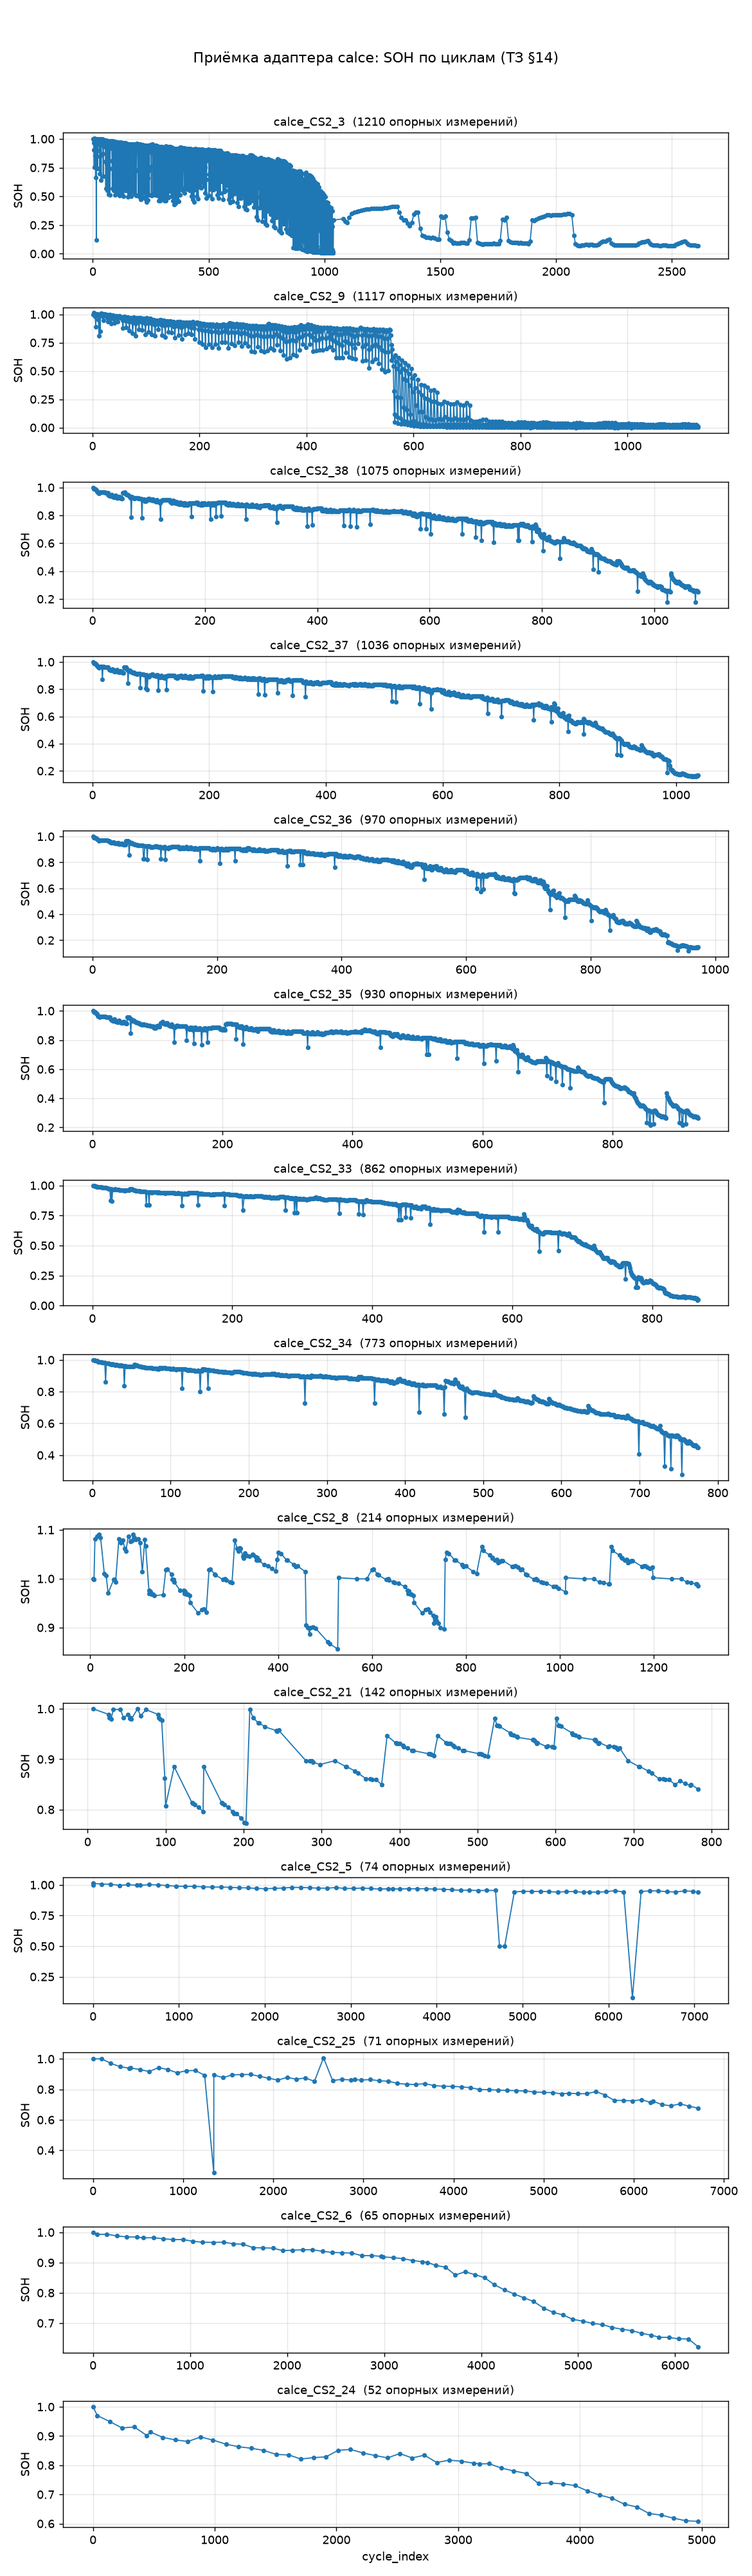
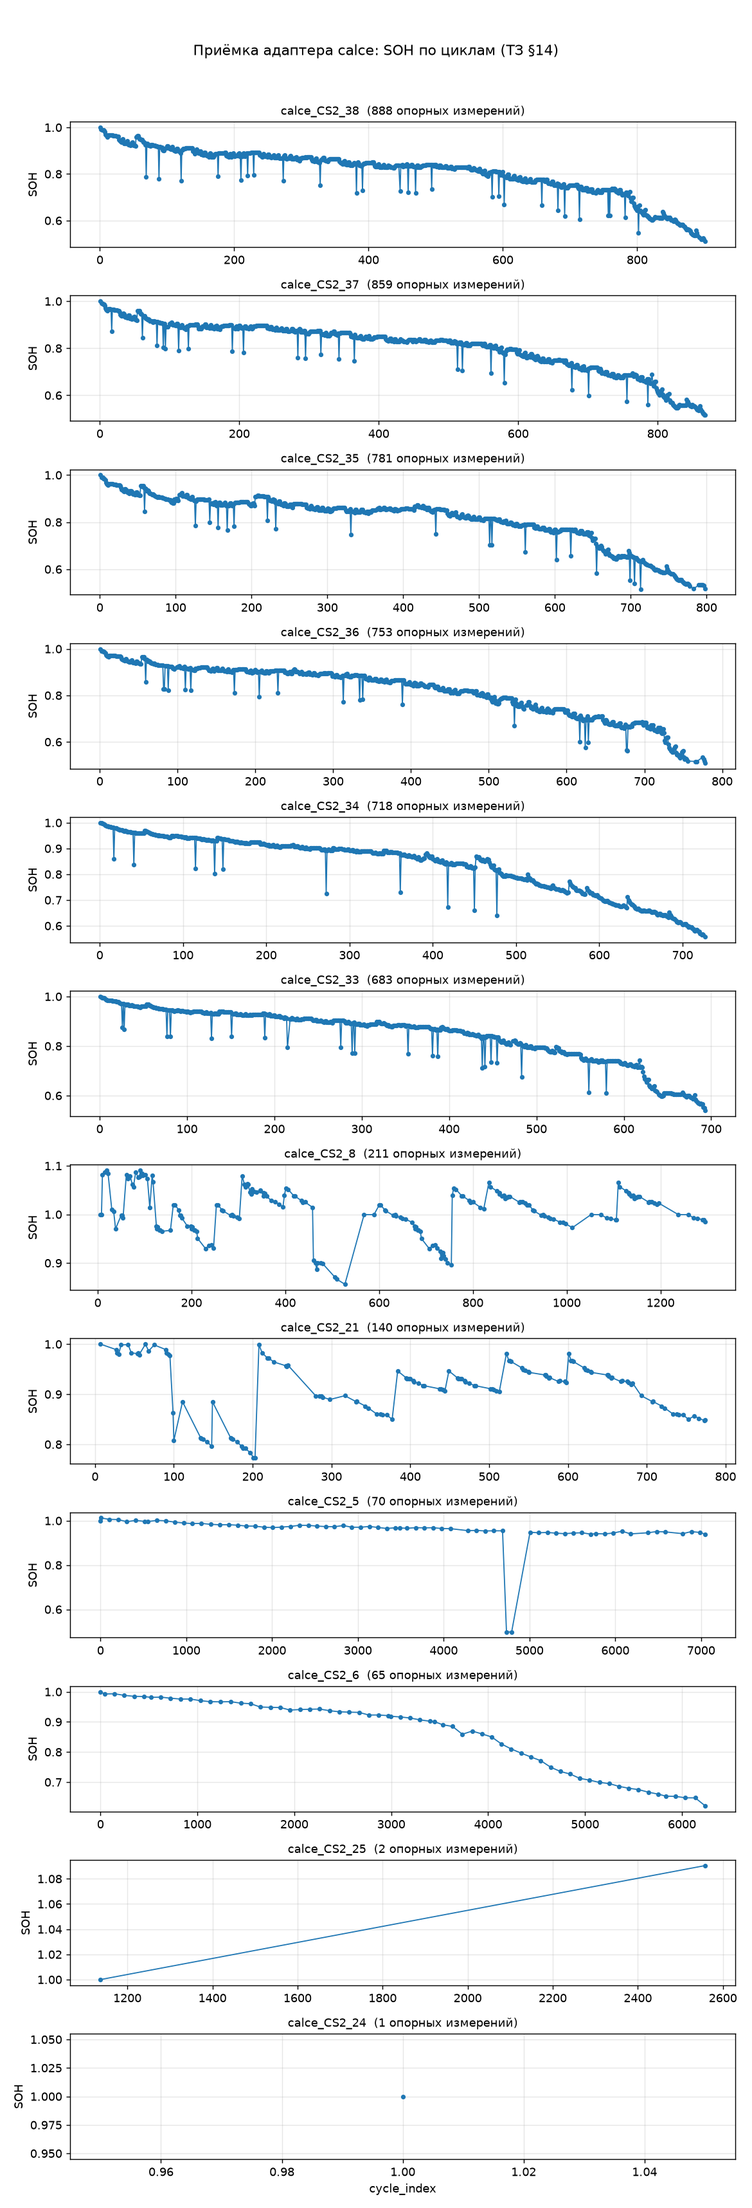
Правила §5 по решению владельца: тип 3 исключён, полный цикл требует заряда
- labels.reference_cycle_rules.calce.exclude_cells: [CS2_3, CS2_9] — тип 3
  меняет ток разряда каждый цикл (0.11..2.2 А), а ёмкость зависит от тока
  (1.098 А·ч при 0.11 А против 0.830 при 2.2 А), поэтому таргет шумит по
  режиму, а не по старению; исключение на этапе discover
- min_charge_throughput_rel: 0.5 — опорный цикл обязан перенести не меньше
  половины bol. Без этого в конце жизни проходили циклы, доходившие до 4.200 В
  и 2.700 В, но переносившие 0.119 А·ч против 0.886 А·ч (ячейка была почти
  полной): 162 из 862 циклов у calce_CS2_33, все в конце жизни. Конечный SOH
  стал правдоподобным: 0.05 -> 0.54
- store.clear_dataset_parts: ingest заменяет датасет целиком, а не дополняет —
  ячейка, исчезнувшая из сырого каталога или исключённая правилом, уходит из
  хранилища (иначе exclude_cells не действовал); старые parts уезжают в _stale
- 169 тестов, ruff чистый

ОСТАЁТСЯ ОТКРЫТЫМ: у 10 ячеек кривые всё ещё немонотонны (11-17 п.п.
восстановления). Следующий шаг — диагностика самого большого скачка (циклы
418-624 у CS2_33/34). Типы 5-6 после фильтра дают 1-2 опорных цикла на ячейку,
их участие в бенчмарке тоже надо решать.

diff --git a/src/bsb/ingest/calce.py b/src/bsb/ingest/calce.py
@@ -107,6 +107,16 @@ class CalceAdapter:
                 f"{raw_dir}: не найдено ячеек серий {sorted(series)}; "
                 "сначала выполните scripts/download_calce.sh"
             )
+        # Решение владельца (§18 п.5): ячейки с меняющимся током разряда в
+        # бенчмарк не входят — их таргет зависит от режима, а не от старения.
+        excluded = {
+            str(item) for item in self.config.labels.rule(self.name).get("exclude_cells", [])
+        }
+        grouped = {key: value for key, value in grouped.items() if key not in excluded}
+        if not grouped:
+            raise FileNotFoundError(
+                f"{raw_dir}: все ячейки серий {sorted(series)} исключены правилом exclude_cells"
+            )
         return [
             CellSource(
                 dataset=self.name,
@@ -457,30 +467,43 @@ class CalceAdapter:
         }
 
     @staticmethod
-    def _drop_off_rate_cycles(
-        cycles: pl.DataFrame, bundle: RawBundle, *, tolerance: float
+    def _drop_shallow_charges(
+        cycles: pl.DataFrame, bundle: RawBundle, *, rel: float
     ) -> tuple[pl.DataFrame, int]:
-        """Снять признак опорного с циклов, разряжавшихся не модальным током.
+        """Снять признак опорного с циклов, перенёсших слишком мало заряда.
 
-        Ёмкость зависит от тока разряда (у CS2 типа 3 — до 25% между соседними
-        циклами), поэтому в опорные оставляем только циклы с модальным для этой
-        ячейки током разряда. Для типов 1 и 2 ток и так постоянный, и фильтр
-        ничего не меняет.
+        Правило владельца: «полный» цикл обязан не только дойти до верхней и
+        нижней границы по напряжению, но и перенести существенный заряд. Иначе
+        в конце жизни в опорные попадают циклы, где ячейка была почти полной:
+        они дают заниженную разрядную ёмкость и ложные «восстановления» SOH.
+
+        Порог считается от ``bol`` этой же ячейки — от ёмкости первого
+        опорного цикла. Первый цикл свежей ячейки заряжается полностью, поэтому
+        опорное значение берётся до фильтрации.
         """
-        discharge = bundle.timeseries.filter(pl.col("step_type") == pl.lit("dch"))
-        if discharge.height == 0:
+        candidates = cycles.filter(
+            pl.col("is_reference") & pl.col("capacity_ah").is_not_null()
+        ).sort("cycle_index")
+        if candidates.height == 0:
             return cycles, 0
-        per_cycle = discharge.group_by("cycle_index").agg(
-            pl.col("current_a").median().abs().alias("current_a")
+        bol = float(candidates["capacity_ah"][0])
+        # Перенесённый заряд — сумма максимумов по фазовым типам: charge_ah
+        # внутри фазы считается от её начала (§4.3), поэтому CC и CV надо
+        # складывать, а не брать общий максимум.
+        charge = (
+            bundle.timeseries.filter(pl.col("step_type").is_in(["chg_cc", "chg_cv"]))
+            .group_by(["cycle_index", "step_type"])
+            .agg(pl.col("charge_ah").max().alias("q_phase"))
+            .group_by("cycle_index")
+            .agg(pl.col("q_phase").sum().alias("q_charge"))
         )
-        counts = per_cycle["current_a"].value_counts(sort=True)
-        if counts.height == 0:
-            return cycles, 0
-        modal = float(counts["current_a"][0])
-        off_rate = per_cycle.filter((pl.col("current_a") - modal).abs() > tolerance * modal)[
+        joined = cycles.join(charge, on="cycle_index", how="left").with_columns(
+            pl.col("q_charge").fill_null(0.0)
+        )
+        shallow = joined.filter(pl.col("is_reference") & (pl.col("q_charge") < rel * bol))[
             "cycle_index"
         ]
-        excluded = sorted(int(value) for value in off_rate.to_list())
+        excluded = sorted(int(value) for value in shallow.to_list())
         if not excluded:
             return cycles, 0
         return (
@@ -548,14 +571,14 @@ class CalceAdapter:
                 f"calce: стратегия {strategy!r} не реализована (ожидается every_full_cycle)"
             )
         cycles = bundle.cycles
-        if bool(rule.get("require_modal_discharge_current", False)):
-            cycles, off_rate = self._drop_off_rate_cycles(
-                cycles, bundle, tolerance=float(rule.get("discharge_current_tolerance_rel", 0.05))
-            )
-            if off_rate:
+        min_throughput_rel = float(rule.get("min_charge_throughput_rel", 0.0))
+        if min_throughput_rel > 0:
+            cycles, shallow = self._drop_shallow_charges(cycles, bundle, rel=min_throughput_rel)
+            if shallow:
                 warnings.append(
-                    f"{bundle.cell_id}: {off_rate} циклов разряжались не модальным током "
-                    "и в опорные не попали (ёмкость зависит от тока разряда)"
+                    f"{bundle.cell_id}: {shallow} циклов дошли до границ по напряжению, "
+                    f"но перенесли меньше {min_throughput_rel:.0%}·bol заряда "
+                    "(ячейка была почти полной), в опорные не попали"
                 )
         bundle = RawBundle(cells=bundle.cells, cycles=cycles, timeseries=bundle.timeseries)
 

diff --git a/src/bsb/store.py b/src/bsb/store.py
@@ -17,6 +17,7 @@ ingest ячейки заменяет её строки, а не дублируе
 
 from __future__ import annotations
 
+import shutil
 from collections.abc import Iterable, Sequence
 from pathlib import Path
 
@@ -32,6 +33,7 @@ from bsb.schema import (
 )
 
 __all__ = [
+    "clear_dataset_parts",
     "compact",
     "list_cells",
     "parts_dir",
@@ -47,6 +49,32 @@ def parts_dir(config: BenchmarkConfig, dataset: str | None = None) -> Path:
     """Каталог промежуточного слоя (всего или одного датасета)."""
     root = config.paths.unified_dir / "parts"
     return root / dataset if dataset else root
+
+
+def clear_dataset_parts(config: BenchmarkConfig, dataset: str, *, archive: bool = True) -> Path:
+    """Очистить промежуточный слой датасета перед полным переразбором.
+
+    ``ingest`` — это полное обновление датасета, а не дополнение: ячейка,
+    исчезнувшая из сырых данных или исключённая правилом конфига, обязана
+    исчезнуть и из хранилища, иначе она молча останется в унифицированном
+    уровне (так ``exclude_cells`` для CALCE сначала не подействовал).
+
+    Старые файлы переносятся в ``parts/_stale/<dataset>`` — их можно сравнить,
+    но в унифицированный уровень они уже не попадут.
+    """
+    target = parts_dir(config, dataset)
+    if not target.is_dir():
+        return target
+    if archive:
+        stale = target.parent / "_stale" / dataset
+        if stale.is_dir():
+            shutil.rmtree(stale)
+        stale.parent.mkdir(parents=True, exist_ok=True)
+        shutil.move(str(target), str(stale))
+    else:
+        shutil.rmtree(target)
+    target.mkdir(parents=True, exist_ok=True)
+    return target
 
 
 def _upsert(path: Path, frame: pl.DataFrame, *, key: str) -> pl.DataFrame:

diff --git a/src/bsb/cli.py b/src/bsb/cli.py
@@ -23,7 +23,7 @@ from bsb.fragments import generate_fragments, strip_labels
 from bsb.ingest import ADAPTERS, get_adapter
 from bsb.schema import SchemaViolation, validate_bundle, validate_fragments
 from bsb.splits import CellLeakageError, assert_no_cell_leakage, load_splits, split_path
-from bsb.store import compact, list_cells, parts_dir, write_bundle
+from bsb.store import clear_dataset_parts, compact, list_cells, parts_dir, write_bundle
 from bsb.validate_submission import (
     expected_test_ids,
     read_submission,
@@ -172,6 +172,12 @@ def _cmd_ingest(config: BenchmarkConfig, args: argparse.Namespace) -> int:
     if not sources:
         print(f"в {raw_dir} не найдено ни одной ячейки", file=sys.stderr)
         return EXIT_FAILURE
+    if args.limit is None:
+        # Полный прогон заменяет датасет целиком: ячейки, которых больше нет в
+        # сырых данных или которые исключены правилом конфига, уходят из
+        # хранилища. Прогон с --limit ничего не чистит: он по определению
+        # частичный и не должен стирать остальное.
+        clear_dataset_parts(config, args.dataset)
     print(f"{args.dataset}: найдено {len(sources)} ячеек в {raw_dir}")
     warnings: list[str] = []
     failures: list[tuple[str, str]] = []
